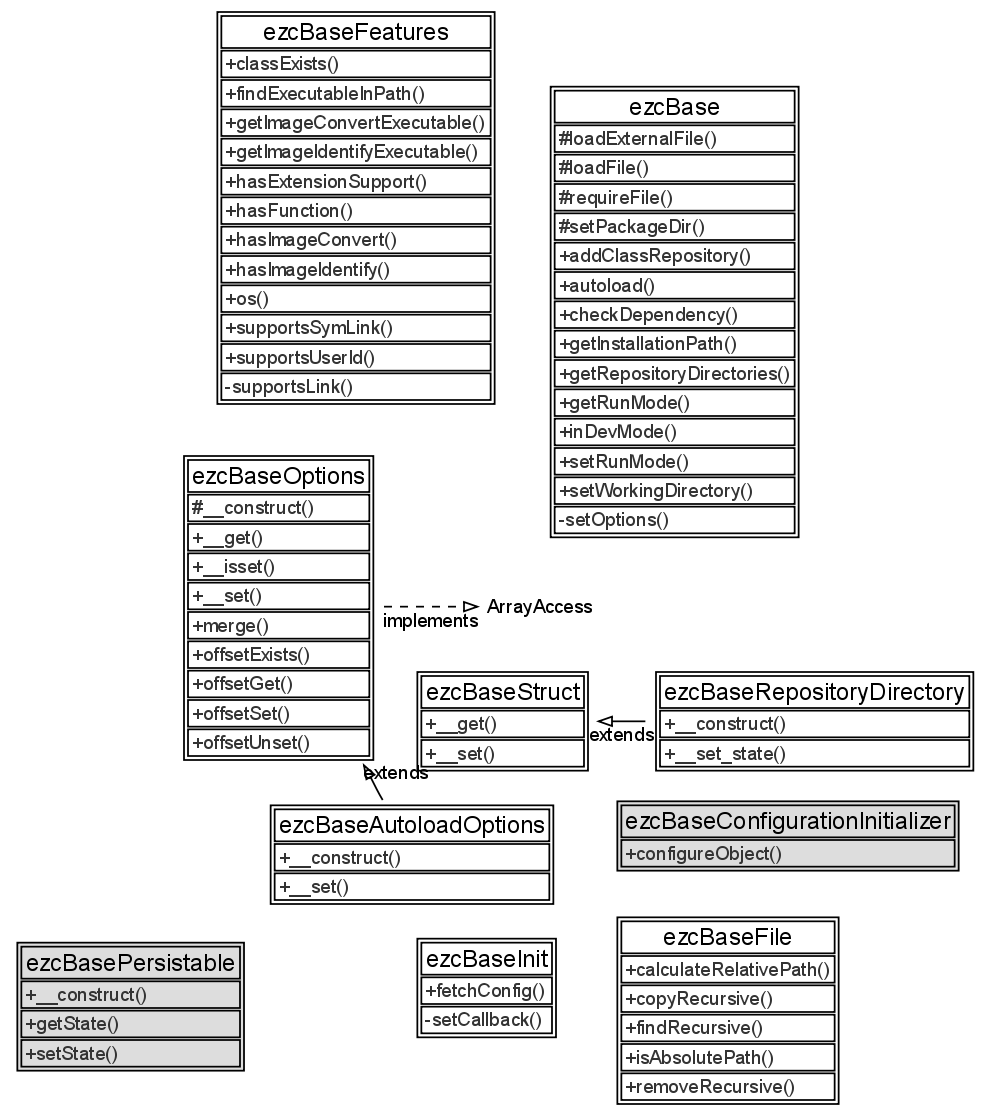
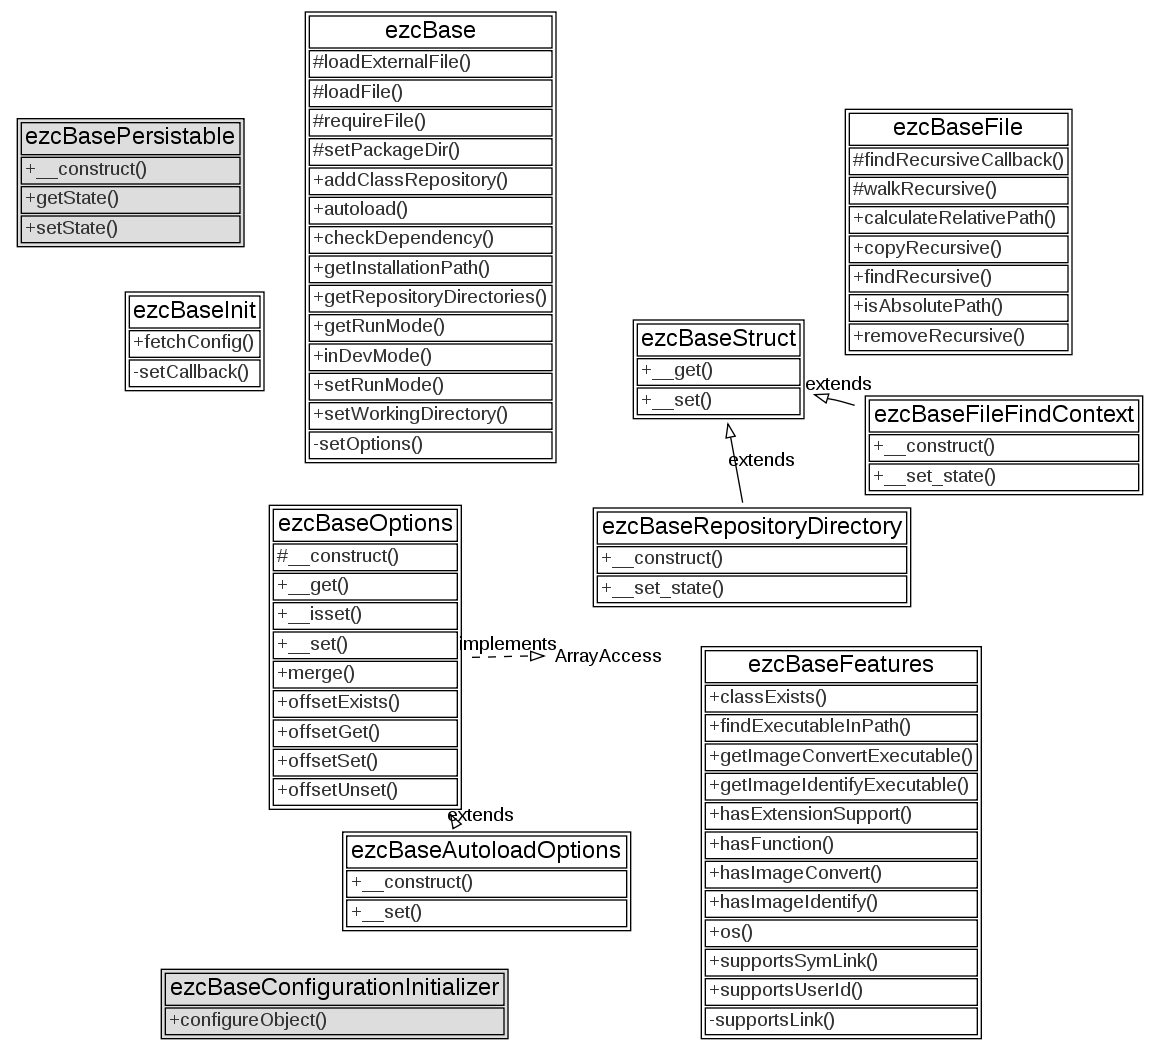
- Implemented issue #12542: Refactored the ezcBaseFile::findRecursive() method   into the ezcBase::walkRecursive() method so that you can setup your own   callbacks to "do things". The findRecursive() method is now implemented   through this.
git-svn-id: http://svn.ez.no/svn/ezcomponents/trunk/Base@9539 bc0e7bdc-f0fc-0310-8ff6-f601c06e1256

diff --git a/src/file.php b/src/file.php
@@ -40,27 +40,69 @@
 class ezcBaseFile
 {
     /**
-     * Finds files recursively on a file system
+     * This is the callback used by findRecursive to collect data.
      *
-     * With this method you can scan the file system for files. You can use
-     * $includeFilters to include only specific files, and $excludeFilters to
-     * exclude certain files from being returned. The function will always go
-     * into subdirectories even if the entry would not have passed the filters.
+     * This callback method works together with walkRecursive() and is called
+     * for every file/and or directory. The $context is a callback specific
+     * container in which data can be stored and shared between the different
+     * calls to the callback function. The walkRecursive() function also passes
+     * in the full absolute directory in $sourceDir, the filename in $fileName
+     * and file information (such as size, modes, types) as an array as
+     * returned by PHP's stat() in the $fileInfo parameter.
+     *
+     * @param ezcBaseFileFindContext $context
+     * @param string $sourceDir
+     * @param string $fileName
+     * @param array(stat) $fileInfo
+     */
+    static protected function findRecursiveCallback( ezcBaseFileFindContext $context, $sourceDir, $fileName, $fileInfo )
+    {
+        // ignore if we have a directory
+        if ( $fileInfo['mode'] & 0x4000 )
+        {
+            return;
+        }
+
+        // update the statistics
+        $context->elements[] = $sourceDir . DIRECTORY_SEPARATOR . $fileName;
+        $context->count++;
+        $context->size += $fileInfo['size'];
+    }
+
+    /**
+     * Walks files and directories recursively on a file system
+     *
+     * This method walks over a directory and calls a callback from every file
+     * and directory it finds. You can use $includeFilters to include only
+     * specific files, and $excludeFilters to exclude certain files from being
+     * returned. The function will always go into subdirectories even if the
+     * entry would not have passed the filters.
+     *
+     * The callback is passed in the $callback parameter, and the
+     * $callbackContext will be send to the callback function/method as
+     * parameter so that you can store data in there that persists with all the
+     * calls and recursive calls to this method. It's up to the callback method
+     * to do something useful with this. The callback function's parameters are
+     * in order:
+     *
+     * <ul>
+     * <li>ezcBaseFileFindContext $context</li>
+     * <li>string $sourceDir</li>
+     * <li>string $fileName</li>
+     * <li>array(stat) $fileInfo</li>
+     * </ul>
+     *
+     * See {@see findRecursiveCallback()} for an example of a callback function.
      *
      * Filters are regular expressions and are therefore required to have
      * starting and ending delimiters. The Perl Compatible syntax is used as
      * regular expression language.
      *
-     * If you pass an empty array to the $statistics argument, the function
-     * will in details about the number of files found into the 'count' array
-     * element, and the total filesize in the 'size' array element. Because this 
-     * argument is passed by reference, you *have* to pass a variable and you
-     * can not pass a constant value such as "array()".
-     *
      * @param string         $sourceDir
      * @param array(string)  $includeFilters
      * @param array(string)  $excludeFilters
-     * @param array()        $statistics
+     * @param callback       $callback
+     * @param mixed          $callbackContext
      *
      * @throws ezcBaseFileNotFoundException if the $sourceDir directory is not
      *         a directory or does not exist.
@@ -68,7 +110,7 @@ class ezcBaseFile
      *         not be opened for reading.
      * @return array
      */
-    static public function findRecursive( $sourceDir, array $includeFilters = array(), array $excludeFilters = array(), &$statistics = null )
+    static public function walkRecursive( $sourceDir, array $includeFilters = array(), array $excludeFilters = array(), $callback, &$callbackContext )
     {
         if ( !is_dir( $sourceDir ) )
         {
@@ -79,13 +121,6 @@ class ezcBaseFile
         if ( !$d )
         {
             throw new ezcBaseFilePermissionException( $sourceDir, ezcBaseFileException::READ );
-        }
-
-        // init statistics array
-        if ( !is_array( $statistics ) || !array_key_exists( 'size', $statistics ) || !array_key_exists( 'count', $statistics ) )
-        {
-            $statistics['size']  = 0;
-            $statistics['count'] = 0;
         }
 
         while ( ( $entry = $d->read() ) !== false )
@@ -108,7 +143,8 @@ class ezcBaseFile
                 // the exception if the top directory could not be read.
                 try
                 {
-                    $subList = self::findRecursive( $sourceDir . DIRECTORY_SEPARATOR . $entry, $includeFilters, $excludeFilters, $statistics );
+                    call_user_func( $callback, $callbackContext, $sourceDir, $entry, $fileInfo );
+                    $subList = self::walkRecursive( $sourceDir . DIRECTORY_SEPARATOR . $entry, $includeFilters, $excludeFilters, $callback, $callbackContext );
                     $elements = array_merge( $elements, $subList );
                 }
                 catch ( ezcBaseFilePermissionException $e )
@@ -140,17 +176,71 @@ class ezcBaseFile
                     }
                 }
 
+                // If everything's allright, call the callback and add the
+                // entry to the elements array
                 if ( $ok )
                 {
+                    call_user_func( $callback, $callbackContext, $sourceDir, $entry, $fileInfo );
                     $elements[] = $sourceDir . DIRECTORY_SEPARATOR . $entry;
-                    $statistics['count']++;
-                    $statistics['size'] += $fileInfo['size'];
                 }
             }
         }
         sort( $elements );
         return $elements;
     }
+
+    /**
+     * Finds files recursively on a file system
+     *
+     * With this method you can scan the file system for files. You can use
+     * $includeFilters to include only specific files, and $excludeFilters to
+     * exclude certain files from being returned. The function will always go
+     * into subdirectories even if the entry would not have passed the filters.
+     * It uses the {@see walkRecursive()} method to do the actually recursion.
+     *
+     * Filters are regular expressions and are therefore required to have
+     * starting and ending delimiters. The Perl Compatible syntax is used as
+     * regular expression language.
+     *
+     * If you pass an empty array to the $statistics argument, the function
+     * will in details about the number of files found into the 'count' array
+     * element, and the total filesize in the 'size' array element. Because this 
+     * argument is passed by reference, you *have* to pass a variable and you
+     * can not pass a constant value such as "array()".
+     *
+     * @param string         $sourceDir
+     * @param array(string)  $includeFilters
+     * @param array(string)  $excludeFilters
+     * @param array()        $statistics
+     *
+     * @throws ezcBaseFileNotFoundException if the $sourceDir directory is not
+     *         a directory or does not exist.
+     * @throws ezcBaseFilePermissionException if the $sourceDir directory could
+     *         not be opened for reading.
+     * @return array
+     */
+    static public function findRecursive( $sourceDir, array $includeFilters = array(), array $excludeFilters = array(), &$statistics = null )
+    {
+        // init statistics array
+        if ( !is_array( $statistics ) || !array_key_exists( 'size', $statistics ) || !array_key_exists( 'count', $statistics ) )
+        {
+            $statistics['size']  = 0;
+            $statistics['count'] = 0;
+        }
+
+        // create the context, and then start walking over the array
+        $context = new ezcBaseFileFindContext;
+        self::walkRecursive( $sourceDir, $includeFilters, $excludeFilters, array( 'ezcBaseFile', 'findRecursiveCallback' ), $context );
+
+        // collect the statistics
+        $statistics['size'] = $context->size;
+        $statistics['count'] = $context->count;
+
+        // return the found and pattern-matched files
+        sort( $context->elements );
+        return $context->elements;
+    }
+
 
     /**
      * Removes files and directories recursively from a file system

diff --git a/src/base_autoload.php b/src/base_autoload.php
@@ -35,6 +35,7 @@ return array(
     'ezcBaseConfigurationInitializer'             => 'Base/interfaces/configuration_initializer.php',
     'ezcBaseFeatures'                             => 'Base/features.php',
     'ezcBaseFile'                                 => 'Base/file.php',
+    'ezcBaseFileFindContext'                      => 'Base/structs/file_find_context.php',
     'ezcBaseInit'                                 => 'Base/init.php',
     'ezcBasePersistable'                          => 'Base/interfaces/persistable.php',
     'ezcBaseRepositoryDirectory'                  => 'Base/structs/repository_directory.php',
